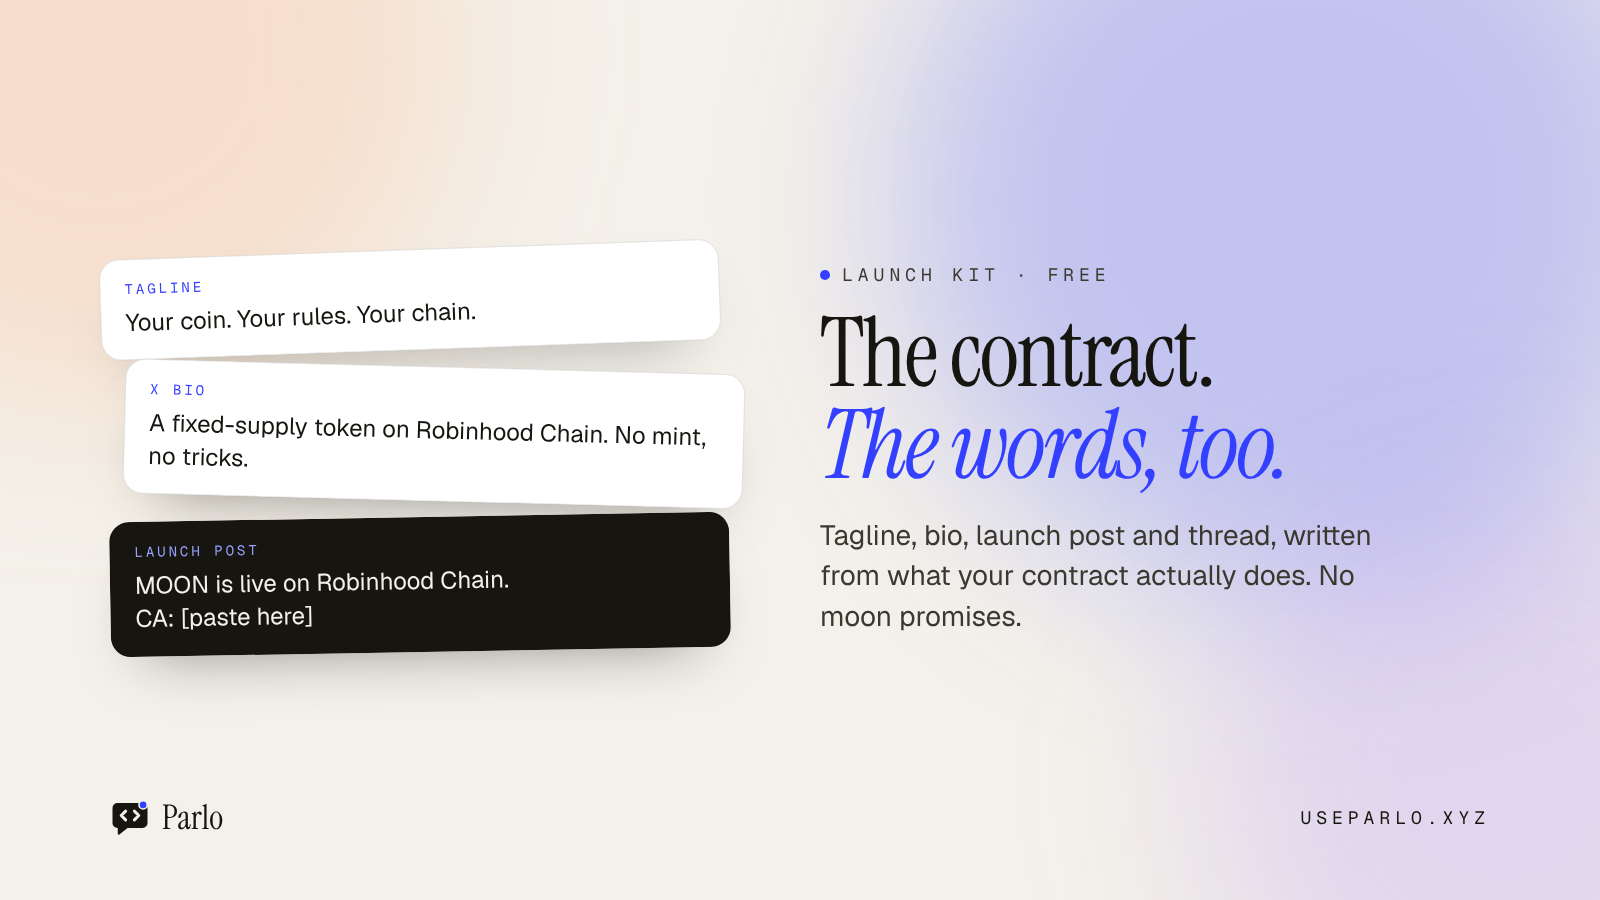
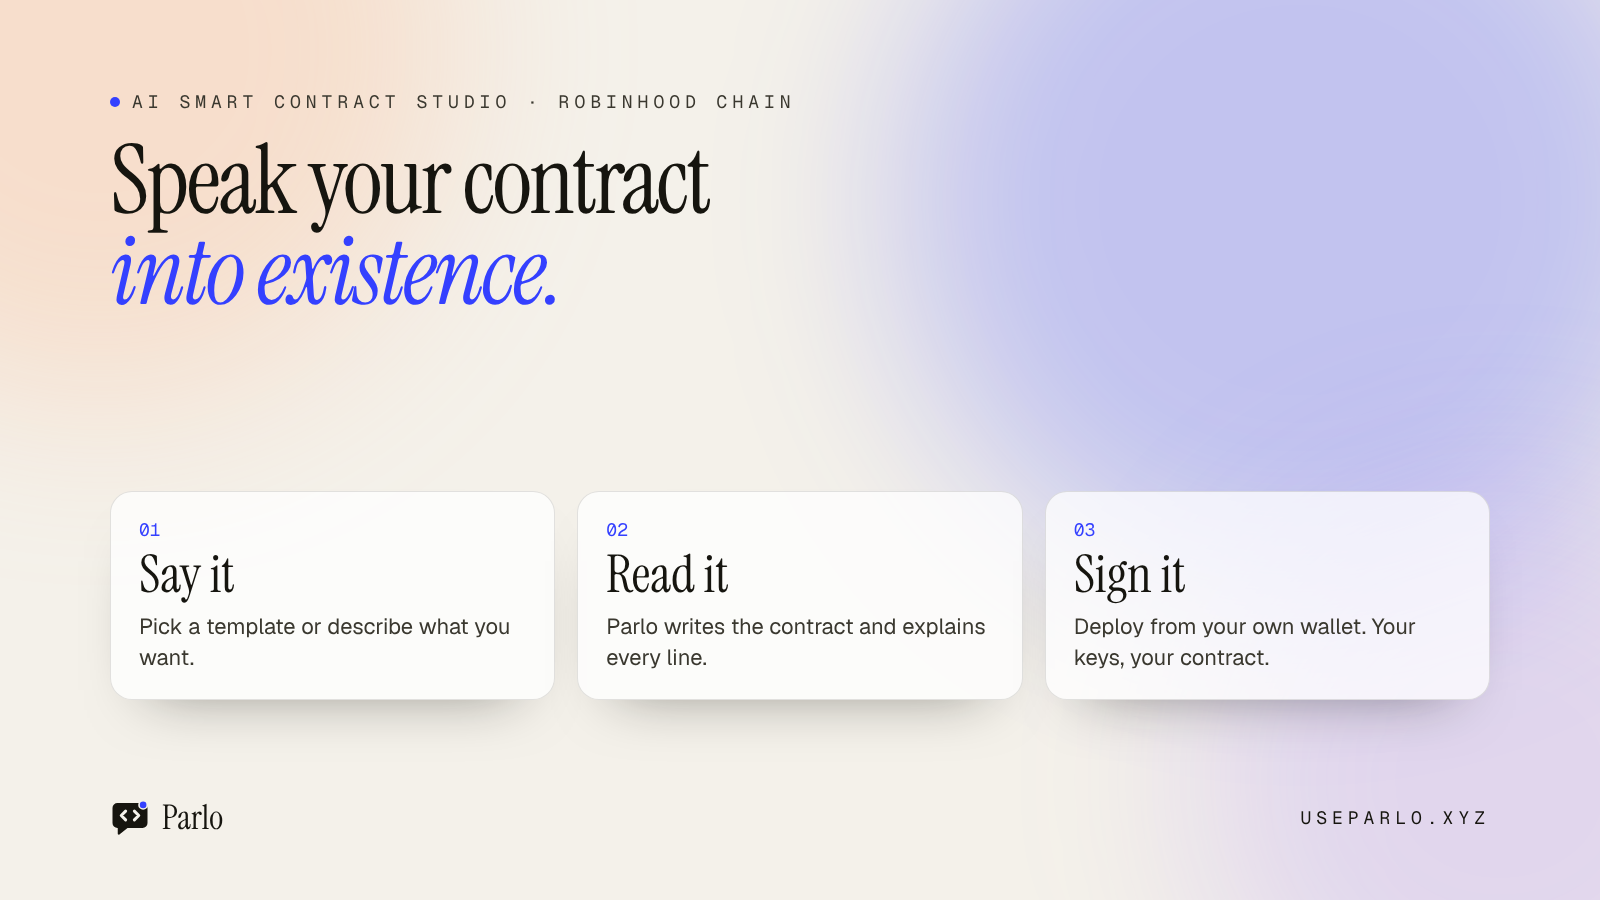
Closing post image and $PARLO launch image
Claude-Session: https://claude.ai/code/session_01Rdd2UEvvzUGUzfA7m6VNSB

diff --git a/brand/kit/post.html b/brand/kit/post.html
@@ -41,6 +41,15 @@ h2 em{font-style:italic;color:#3440ff}
 .kc:nth-child(1){transform:rotate(-2deg) translateX(-10px)}.kc:nth-child(2){transform:rotate(1.5deg) translateX(14px)}
 .kc:nth-child(3){background:#16150f;color:#f4f1ea;transform:rotate(-1deg)}.kc:nth-child(3) small{color:#9aa2ff}
 .side p{font-size:28px;color:#3a382f;line-height:1.45;margin-top:24px;max-width:600px}
+.steps3{display:grid;grid-template-columns:repeat(3,1fr);gap:22px;margin:auto 0 110px}
+.steps3 div{background:rgba(255,255,255,.75);border:1px solid rgba(22,21,15,.12);border-radius:22px;padding:26px 28px;box-shadow:0 30px 60px -40px rgba(22,21,15,.5)}
+.steps3 small{font-family:"GM";font-size:18px;color:#3440ff}
+.steps3 b{display:block;font-family:"IS";font-weight:400;font-size:52px;line-height:1;margin:8px 0 10px}
+.steps3 span{font-size:22px;color:#3a382f;line-height:1.4}
+.lrow{display:flex;align-items:center;justify-content:space-between;margin:auto 0;padding-bottom:40px}
+h2.big{font-size:190px;line-height:.86;letter-spacing:-6px;margin-top:26px}
+.tag2{font-family:"GM";font-size:24px;letter-spacing:3px;color:#3a382f;margin-top:34px;text-transform:uppercase}
+.biglogo{width:400px;height:400px;filter:drop-shadow(0 50px 60px rgba(22,21,15,.35));transform:rotate(4deg)}
 </style></head><body><div class="au"><i class="a1"></i><i class="a2"></i><i class="a3"></i></div>
 
 <section class="s" id="post2">
@@ -66,14 +75,23 @@ h2 em{font-style:italic;color:#3440ff}
 </section>
 
 <section class="s" id="post5">
-  <div class="row">
-    <div class="stack">
-      <div class="kc"><small>Tagline</small>Your coin. Your rules. Your chain.</div>
-      <div class="kc"><small>X bio</small>A fixed-supply token on Robinhood Chain. No mint, no tricks.</div>
-      <div class="kc"><small>Launch post</small>MOON is live on Robinhood Chain.<br>CA: [paste here]</div>
+  <div class="eb"><i></i>AI smart contract studio · Robinhood Chain</div>
+  <h2>Speak your contract<br><em>into existence.</em></h2>
+  <div class="steps3">
+    <div><small>01</small><b>Say it</b><span>Pick a template or describe what you want.</span></div>
+    <div><small>02</small><b>Read it</b><span>Parlo writes the contract and explains every line.</span></div>
+    <div><small>03</small><b>Sign it</b><span>Deploy from your own wallet. Your keys, your contract.</span></div>
+  </div>
+</section>
+
+<section class="s" id="launch">
+  <div class="lrow">
+    <div>
+      <div class="eb"><i></i>Now live on Robinhood Chain</div>
+      <h2 class="big">$PARLO<br><em>is live.</em></h2>
+      <p class="tag2">One sentence in. One contract out.</p>
     </div>
-    <div class="side"><div class="eb"><i></i>Launch Kit · free</div><h2>The contract.<br><em>The words, too.</em></h2>
-    <p>Tagline, bio, launch post and thread, written from what your contract actually does. No moon promises.</p></div>
+    <svg class="biglogo" viewBox="0 0 32 32" fill="none"><path d="M6 4h20a4 4 0 0 1 4 4v12a4 4 0 0 1-4 4H14l-6.5 5.2a.8.8 0 0 1-1.3-.62V24H6a4 4 0 0 1-4-4V8a4 4 0 0 1 4-4Z" fill="#16150f"/><path d="M12.5 10.5 9 14l3.5 3.5M19.5 10.5 23 14l-3.5 3.5" stroke="#f4f1ea" stroke-width="2.4" stroke-linecap="round" stroke-linejoin="round"/><circle cx="26.5" cy="5.5" r="3.3" fill="#3440ff" stroke="#f4f1ea" stroke-width="1.3"/></svg>
   </div>
 </section>
 
